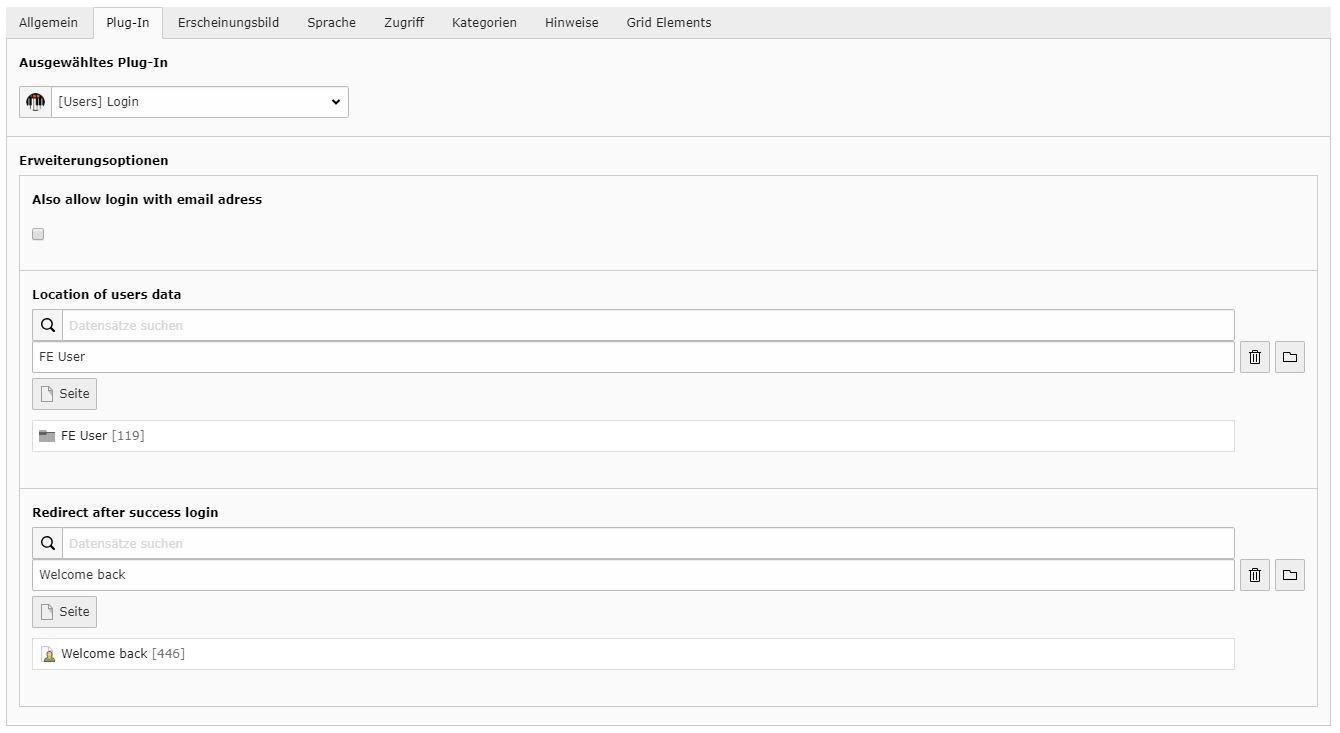
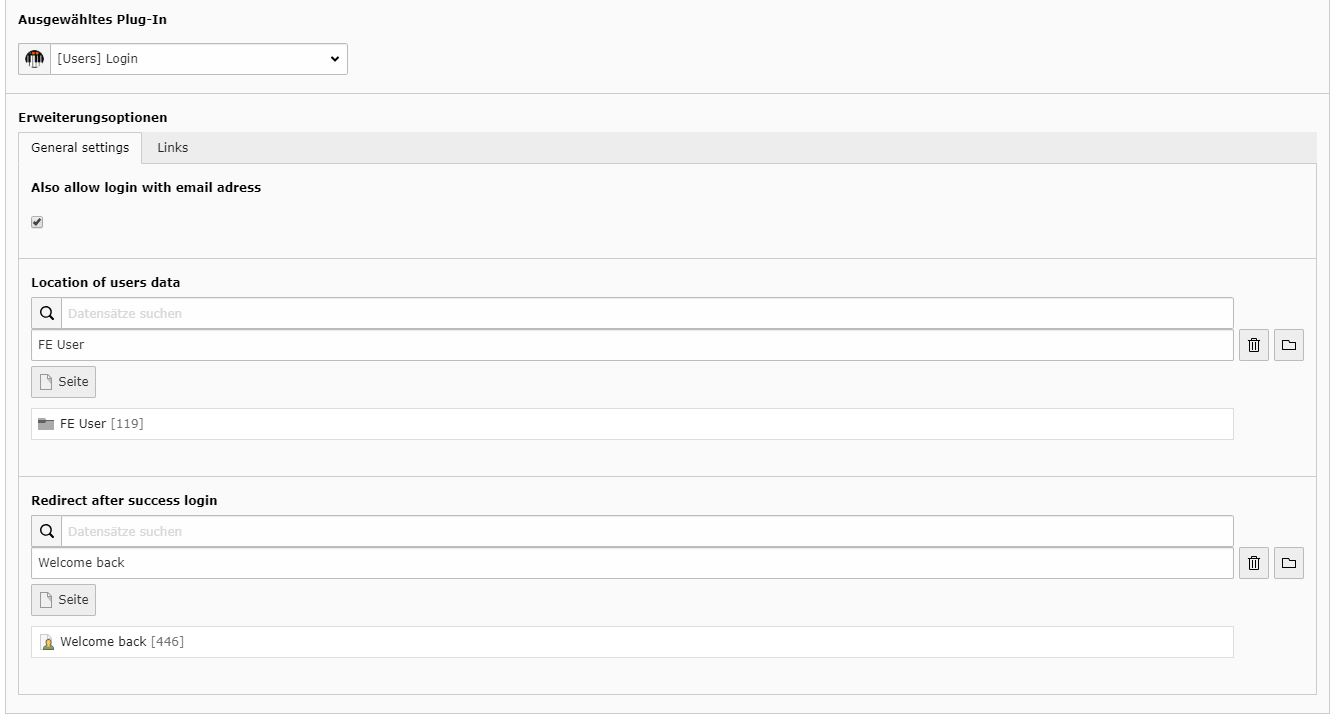
Modified   Documentation/login.jpg Modified   README.md Add        Documentation/login2.jpg Add        Documentation/logout.jpg

Changed region(s): [[0.0, 0.0, 1.0, 1.0], [0.3366, 0.0, 0.5507, 0.0611], [0.2448, 0.1222, 0.2754, 0.1528]]

diff --git a/README.md b/README.md
@@ -27,4 +27,13 @@ I develop this extension in an 8 environment on https://filmmusic.io and will ma
 
 ### Plugin: Login
 
+General settings
 ![plugin](Documentation/login.jpg)
+
+Links
+![plugin](Documentation/login2.jpg)
+
+### Plugin: Logout
+
+General settings
+![plugin](Documentation/logout.jpg)
